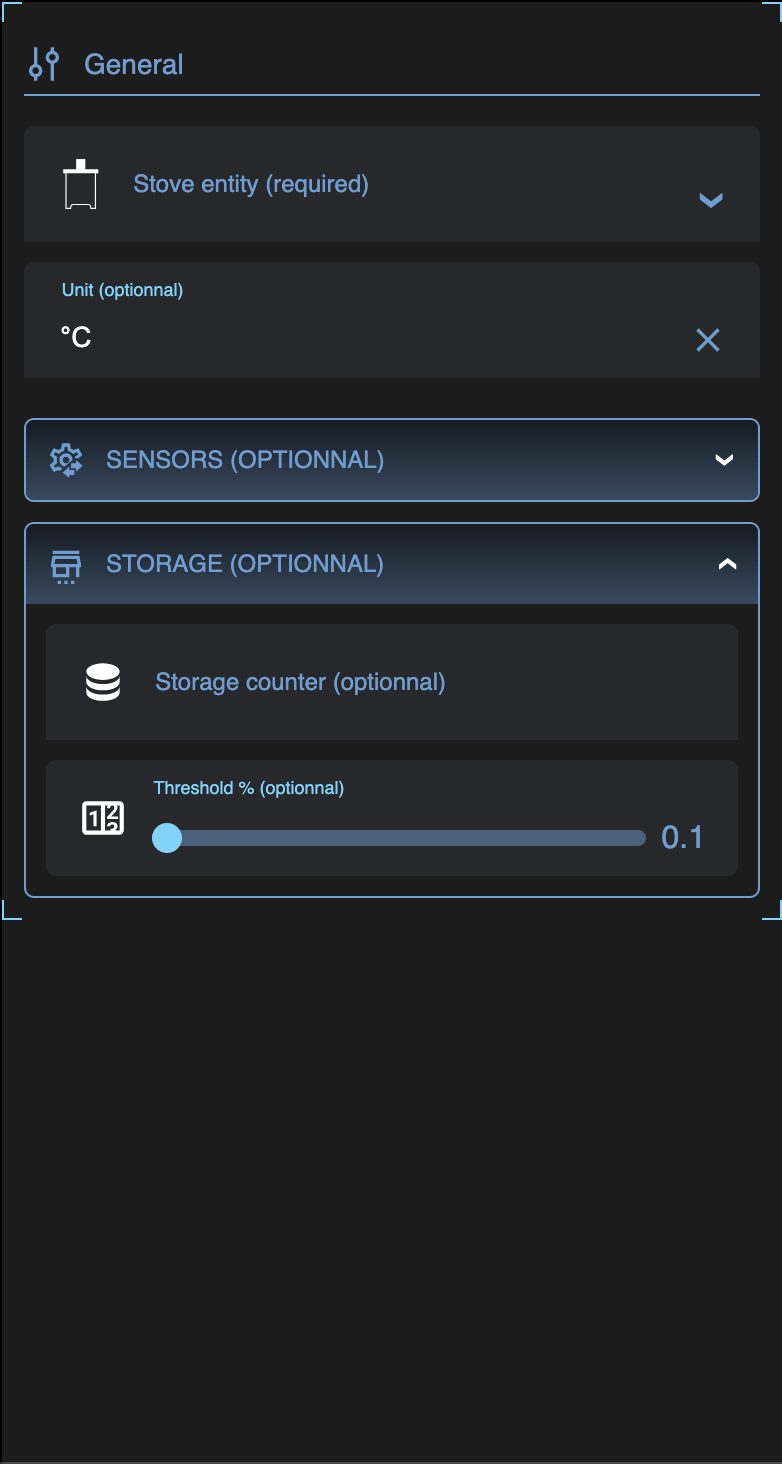
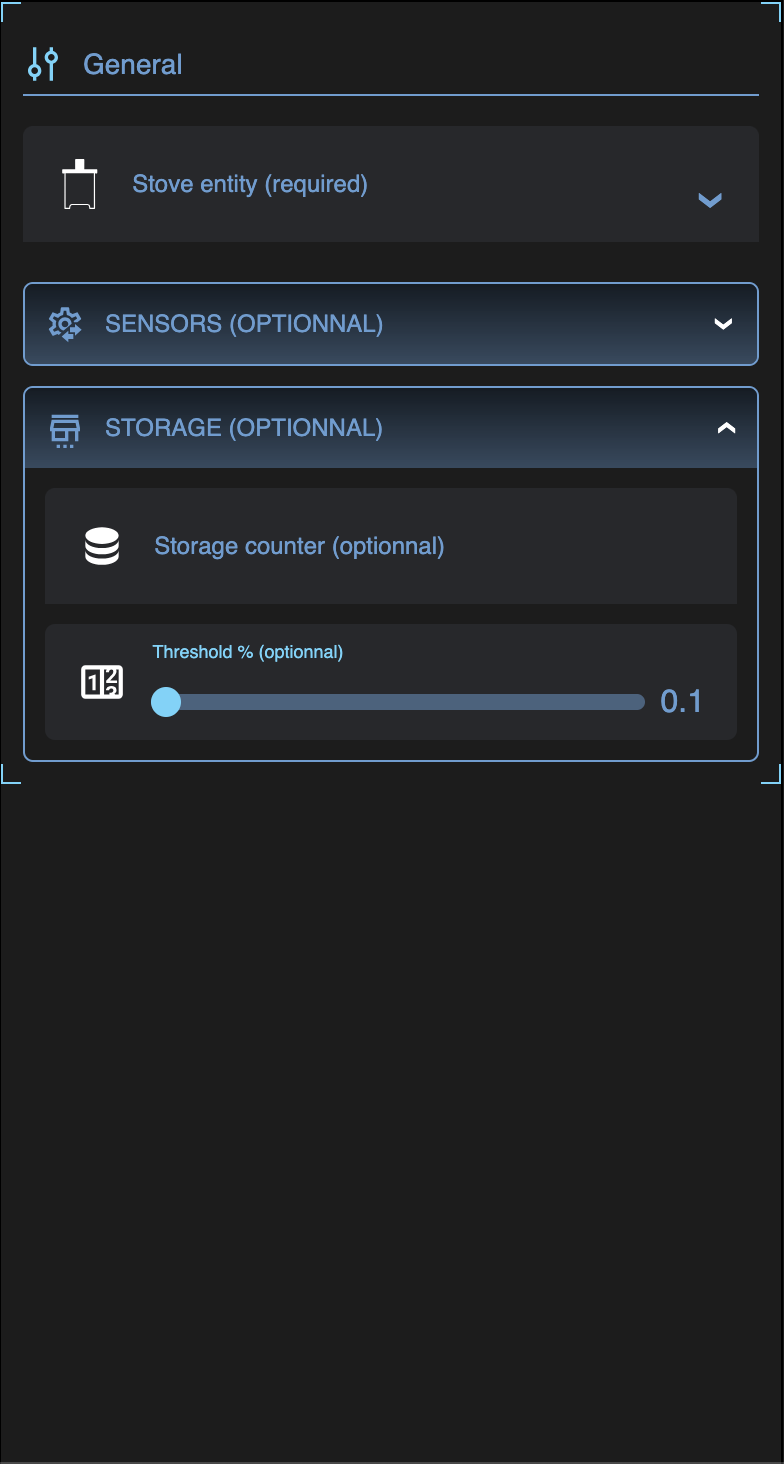
Stove card : displaying temperature/pressure unit based on your HA system configuration

diff --git a/src/cards/stove/card.js b/src/cards/stove/card.js
@@ -22,6 +22,8 @@ export class SciFiStove extends SciFiBaseCard {
 
   _configMetadata = configMetadata;
   _hass; // private
+  _temp_unit;
+  _pressure_unit;
 
   static get properties() {
     return {
@@ -49,6 +51,10 @@ export class SciFiStove extends SciFiBaseCard {
       !isEqual(stove_entity.renderAsEntity(), this._stove.renderAsEntity())
     )
       this._stove = stove_entity;
+
+    if (!this._temp_unit) this._temp_unit = hass.config.unit_system.temperature; // Gather HA temperature unit only once
+    if (!this._pressure_unit)
+      this._pressure_unit = hass.config.unit_system.pressure; // Gather HA pressure unit only once
   }
 
   render() {
@@ -73,7 +79,7 @@ export class SciFiStove extends SciFiBaseCard {
     ).map((e, idx) => {
       return {
         id: idx,
-        text: [idx + this._stove.min_temp, this._config.unit].join(''),
+        text: [idx + this._stove.min_temp, this._temp_unit].join(''),
         value: idx + this._stove.min_temp,
       };
     });
@@ -168,14 +174,18 @@ export class SciFiStove extends SciFiBaseCard {
             ${this.__displayTemperature(
               'External',
               this._stove.current_temperature,
-              this._config.unit
+              this._temp_unit
             )}
             ${this.__displayTemperature(
               'Internal',
               this._stove.combustion_chamber_temperature.value,
-              this._config.unit
+              this._temp_unit
             )}
-            ${this.__displayPressure('Pressure', this._stove.pressure.value)}
+            ${this.__displayPressure(
+              'Pressure',
+              this._stove.pressure.value,
+              this._pressure_unit
+            )}
           </div>
         </div>
         <div class="e top-path">
@@ -289,13 +299,13 @@ export class SciFiStove extends SciFiBaseCard {
     </div>`;
   }
 
-  __displayPressure(text, pressure) {
+  __displayPressure(text, pressure, unit) {
     if (!pressure) return nothing;
     return html`
       <div class="temperature ${pressure == '0' ? 'off' : ''}">
         <sci-fi-icon icon="mdi:gauge"></sci-fi-icon>
         <div class="label">${text}:</div>
-        <div>${pressure}</div>
+        <div>${pressure}${unit}</div>
       </div>
     `;
   }

diff --git a/src/cards/stove/editor.js b/src/cards/stove/editor.js
@@ -55,13 +55,6 @@ export class SciFiStoveEditor extends SciFiBaseEditor {
           .items="${this._climates}"
           @input-update=${this.__update}
         ></sci-fi-dropdown-entity-input>
-        <sci-fi-input
-          label="Unit (optionnal)"
-          value=${this._config.unit}
-          element-id="unit"
-          kind="unit"
-          @input-update=${this.__update}
-        ></sci-fi-input>
       </section>
     `;
   }

diff --git a/src/cards/stove/config-metadata.js b/src/cards/stove/config-metadata.js
@@ -4,11 +4,6 @@ export default {
     type: 'string',
     default: '',
   },
-  unit: {
-    mandatory: false,
-    type: 'string',
-    default: '°C',
-  },
   sensors: {
     mandatory: false,
     type: 'object',

diff --git a/tests/config/config_stove.js b/tests/config/config_stove.js
@@ -1,6 +1,5 @@
 export default {
   entity: 'climate.clou',
-  unit: '°C',
   sensors: {
     sensor_actual_power: 'sensor.clou_actual_power',
     sensor_combustion_chamber_temperature:

diff --git a/README.md b/README.md
@@ -737,6 +737,10 @@ From top to bottom, display:
   - Energy consumed / rendered & fan speed
 - Stove actions: mode, temperature and preset
 
+
+> [!NOTE]
+> Card temperature & pressure unit are based on you HA system configuration.
+
 ### Screenshots
 
 <details>
@@ -772,7 +776,6 @@ entity: climate.my_stove # replace with your stove's entity id
 ```yaml
 type: custom:sci-fi-stove
 entity: climate.my_stove # replace with your stove's entity id
-unit: "°C"
 sensors:
   sensor_actual_power: sensor.my_stove_actual_power # replace with your stove's render power sensor id
   sensor_power: sensor.my_stove_power # replace with your stove's power consumer sensor id
@@ -793,7 +796,6 @@ storage_counter_threshold: 0.07
 | - | - | - | - | - |
 | type | String | **Required** | Card definition | `custom:sci-fi-stove`|
 | entity | String | **Required** | Stove climate entity ID | `''` |
-| unit | String | **Optionnal** | Climate temperature unit  | °C |
 | `sensors` | Object | **Optional** | Section describing stove additional sensors |  | 
 | pellet_quantity_threshold | Float | **Optional** | Threshold for internal stove pellet quantity (for displaying graphical alert)</br> Must be between 0 (0%) & 1 (100%) | `0.5` | 
 | storage_counter | String | **Optional** | Stove pellet bags sensor counter ID | `''` | 
@@ -803,7 +805,6 @@ storage_counter_threshold: 0.07
 ```yaml
 type: custom:sci-fi-hexa-tiles
 entity: climate.my_stove # replace with your stove's entity id
-unit: "°C"
 sensors:
   ... # see sensor configuration bellow
 pellet_quantity_threshold: 0.4

diff --git a/CHANGELOG.md b/CHANGELOG.md
@@ -11,6 +11,9 @@
 🌡 Climate card
 - Displaying temperature unit based on your HA system configuration
 
+🪵🔥 Stove card
+- Displaying temperature/pressure unit based on your HA system configuration
+
 # [v0.6.2](https://github.com/adrien-parasote/ha-sci-fi/releases/tag/0.6.2) - 2025-03-16
 
 ## 🆙  What's Changed
